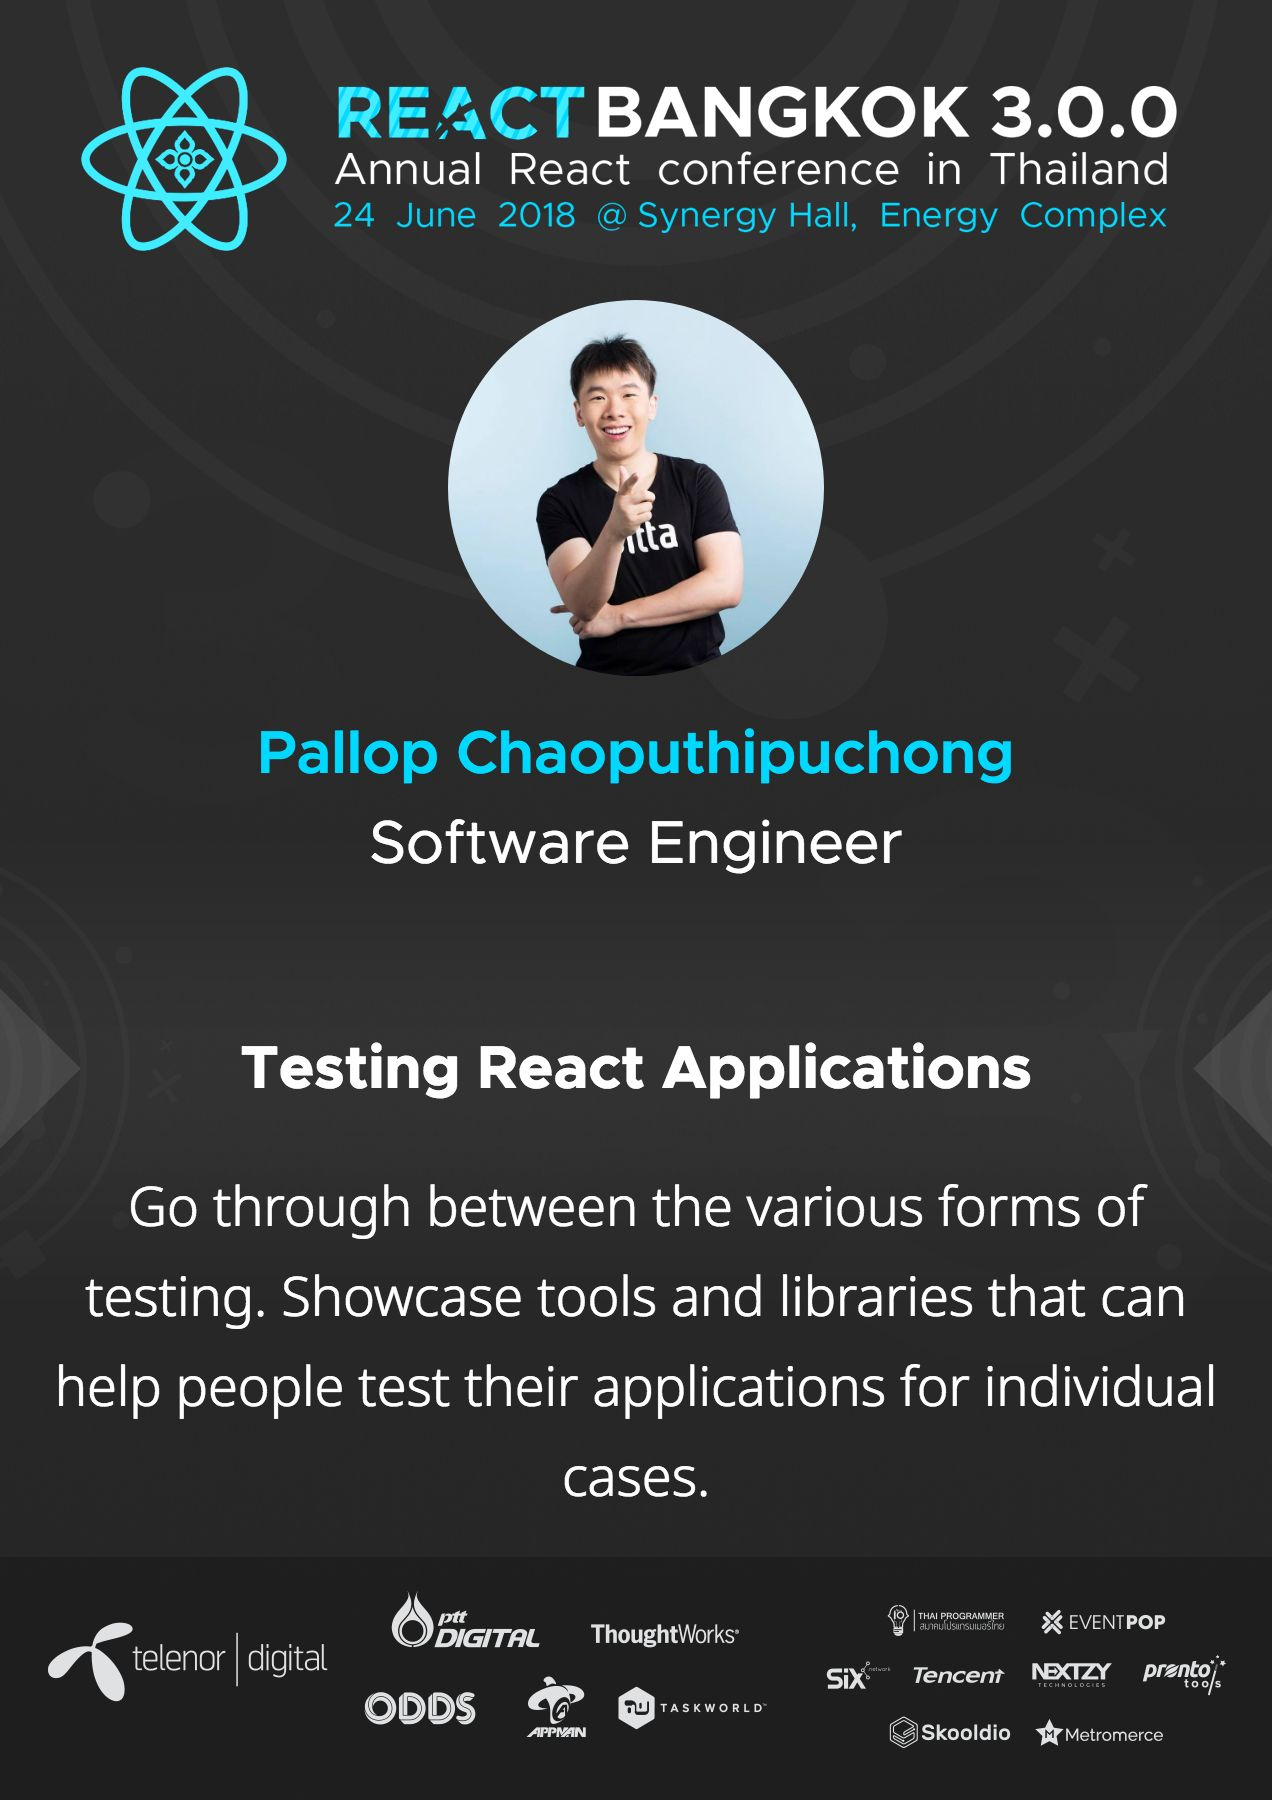
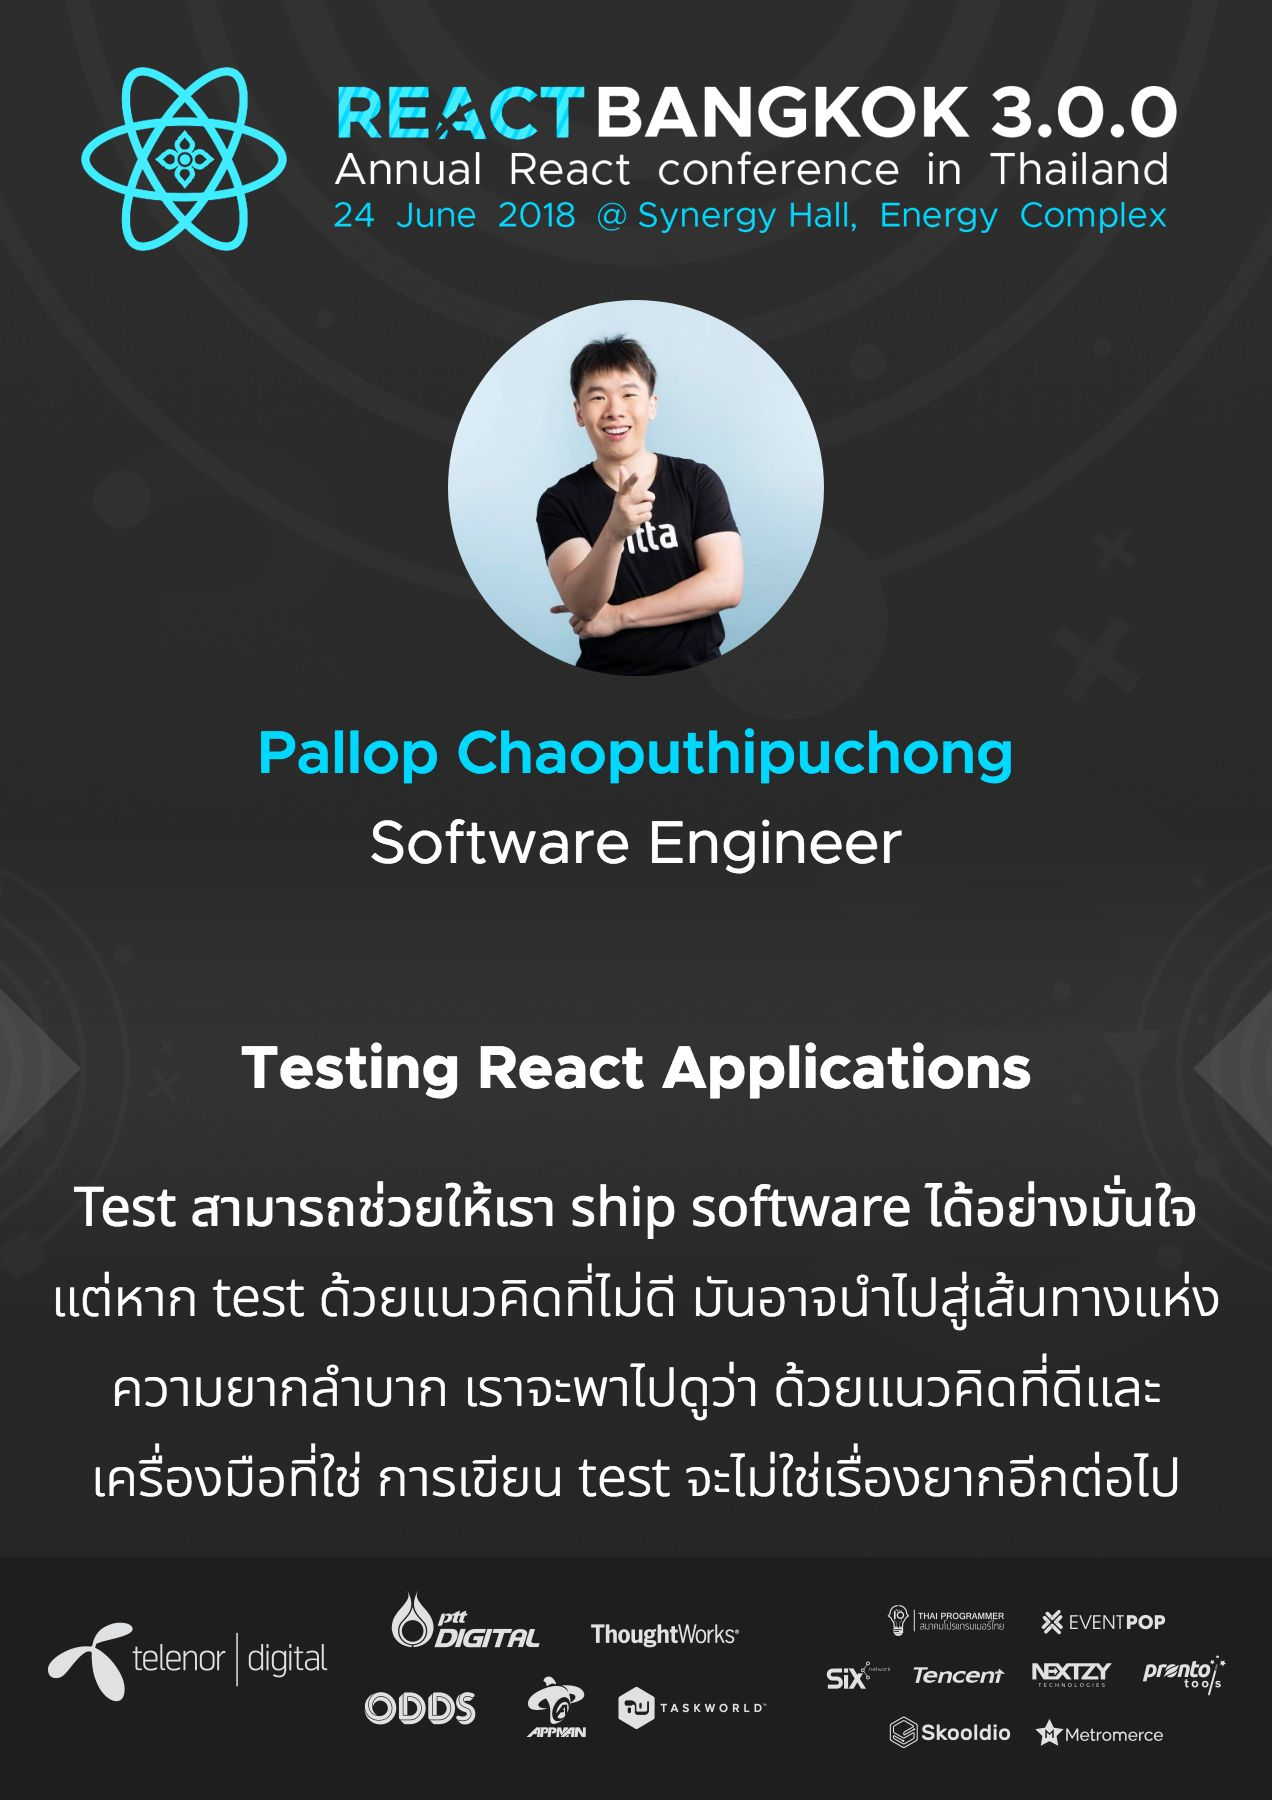
update speaker content

Changed region(s): [[0.0307, 0.6533, 0.9505, 0.84]]

diff --git a/src/index.js b/src/index.js
@@ -242,9 +242,13 @@ export const speakers = {
       title="Testing React Applications"
       description={
         <Text>
-          Go through between the various forms of testing. Showcase tools and
-          libraries that can help people test their applications for individual
-          cases.
+          <Text weight={400}>
+            Test สามารถช่วยให้เรา ship software ได้อย่างมั่นใจ
+          </Text>
+          <br />
+          แต่หาก test ด้วยแนวคิดที่ไม่ดี มันอาจนำไปสู่เส้นทางแห่งความยากลำบาก
+          เราจะพาไปดูว่า ด้วยแนวคิดที่ดีและเครื่องมือที่ใช่ การเขียน test
+          จะไม่ใช่เรื่องยากอีกต่อไป
         </Text>
       }
       photo={require('./photo/ham.jpg')}
